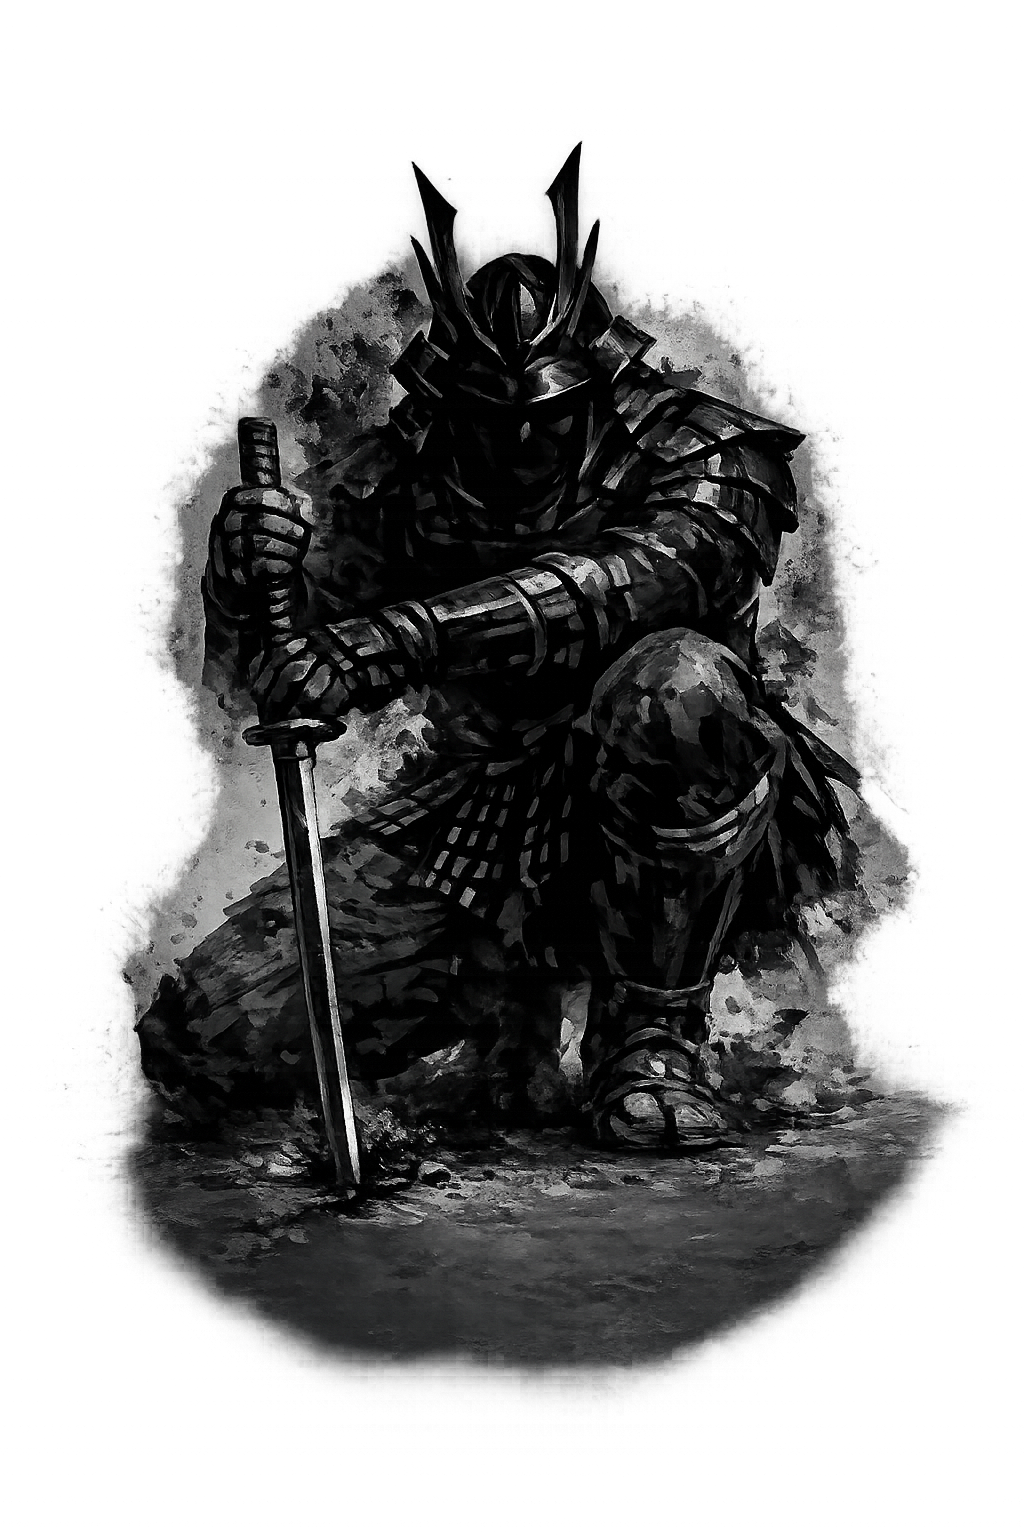
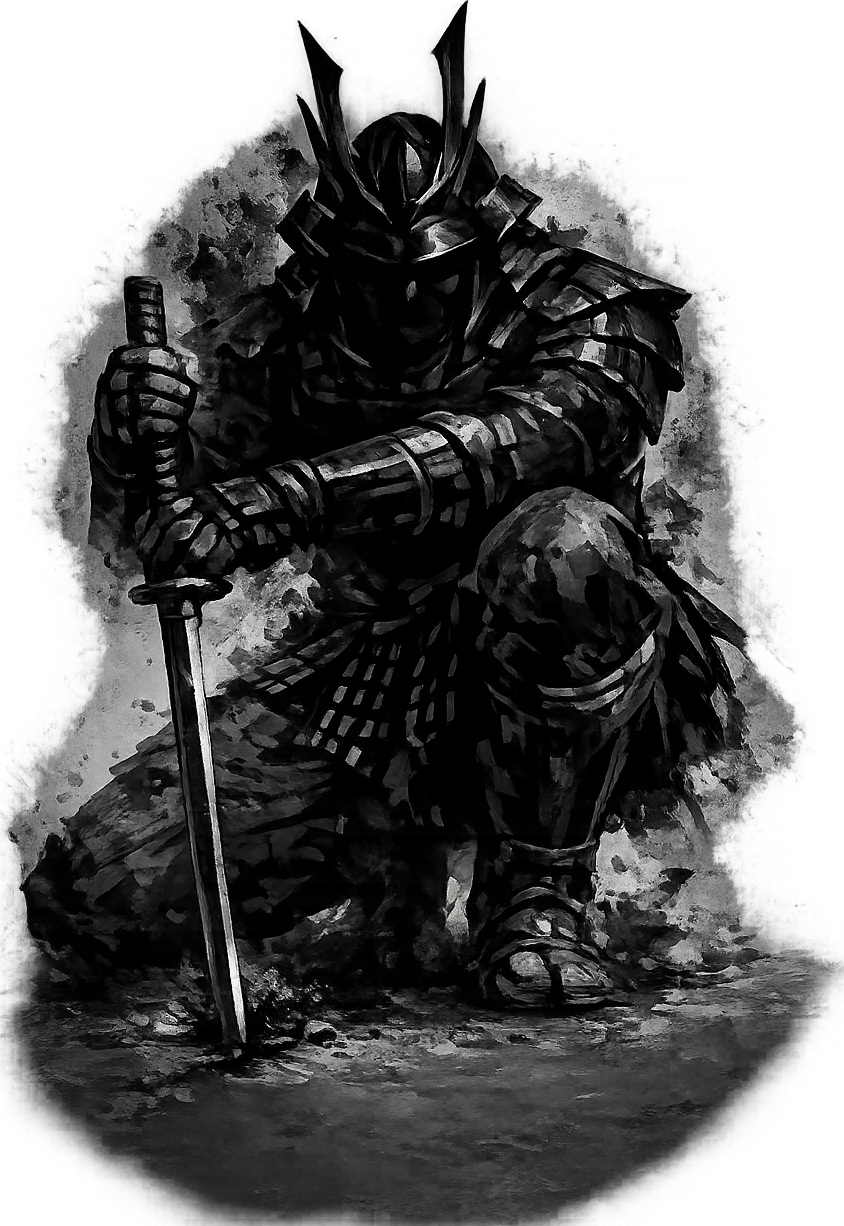
Creating the initial idea for dynamic

diff --git a/frontend/scarlet_shade/src/script/engine/InputManager.js b/frontend/scarlet_shade/src/script/engine/InputManager.js
@@ -1,0 +1,69 @@
+export class InputManager{
+    keys;
+    canvas;
+    keyboardIndex;
+    gamepadIndex;
+
+    constructor(canvas){
+        this.keys = {
+            up: false,
+            down: false,
+            left: false,
+            right: false,
+            jump: false,
+            dash: false,
+            crouch: false,
+            attack: false,
+            spinAttack: false,
+            especialOne: false,
+            especialTwo: false,
+            menuAccess: false,
+            selectItem: false,
+            useItem: false,
+        }
+
+        this.canvas = canvas;
+
+        addEventListener("keydown", (e) => this.onKeyDown(e));
+        addEventListener("keyup", (e) => this.onKeyUp(e));
+
+        this.gamepadIndex = null;
+    }
+
+    onKeyDown(event){
+        const key = event.key.toLowerCase();
+        switch(key){
+            case "w": this.keys.up = true; break;
+            case "a": this.keys.left = true; break;
+            case "s": this.keys.down = true; break;
+            case "d": this.keys.right = true; break;
+        }
+    }
+
+    onKeyUp(event){
+        const key = event.key.toLowerCase();
+        switch(key){
+            case "w": this.keys.up = false; break;
+            case "a": this.keys.left = false; break;
+            case "s": this.keys.down = false; break;
+            case "d": this.keys.right = false; break;
+        }
+    }
+
+    applyInputs(player) {
+
+        if (this.keys.left) {
+            player.moveLeft();
+        }
+        if (this.keys.right) {
+            player.moveRight();
+        } 
+        if (this.keys.up) {
+            player.moveUp();
+        } 
+        if (this.keys.down) {
+            player.moveDown();
+        }
+    }
+
+}

diff --git a/frontend/scarlet_shade/src/script/gameplay.js b/frontend/scarlet_shade/src/script/gameplay.js
@@ -1,0 +1,46 @@
+import { Enemy } from "./models/enemies/Enemy.js";
+import { Camera } from "./models/player/Camera.js";
+import { Player } from "./models/player/Player.js";
+import { GameObject } from "./models/GameObject.js";
+import { InputManager } from "./engine/InputManager.js";
+import { onMount } from "svelte";
+import { EntityManager } from "./engine/EntityManager.js";
+
+let inputManager;
+
+export function startGame(canvas) {
+
+    canvas.width = window.innerWidth;
+    canvas.height = window.innerHeight;
+
+    addEventListener('resize', () => {
+        canvas.width = window.innerWidth;
+        canvas.height = window.innerHeight;
+    });
+
+    const ctx = canvas.getContext("2d");
+
+    inputManager = new InputManager(canvas);
+
+    EntityManager.init(new Player(100, 100, 100, 100), new Camera(canvas, 0, 0));
+
+    EntityManager.addEntity(new Enemy(100, 100, 600, 300));
+    EntityManager.addEntity(new Enemy(100, 100, 6000, 100));
+
+    gameloop(canvas, ctx);
+}
+
+const gameloop = (canvas, ctx) => {
+    ctx.clearRect(0, 0, canvas.width, canvas.height);
+
+    
+    EntityManager.entities.camera.updateCamera(EntityManager.entities.player);
+    ctx.save();
+    
+    EntityManager.drawEntities(ctx);
+
+    ctx.restore();
+    inputManager.applyInputs(EntityManager.entities.player);
+
+    requestAnimationFrame(() => gameloop(canvas, ctx));
+}

diff --git a/frontend/scarlet_shade/src/script/engine/EntityManager.js b/frontend/scarlet_shade/src/script/engine/EntityManager.js
@@ -1,0 +1,29 @@
+export class EntityManager{
+    static entities;
+
+    static init(player, camera){
+        this.entities = {
+            player: player,
+            camera: camera,
+            enemies: []
+        }
+    }
+
+    static addEntity(entity){
+        this.entities.enemies.push(entity);
+    }
+
+    static updateEntity(){
+
+    }
+
+    static removeEntity(){
+        
+    }
+
+    static drawEntities(ctx){
+        this.entities.camera.draw(ctx);
+        this.entities.player.draw(ctx);
+        this.entities.enemies.forEach((e) => e.draw(ctx));
+    }
+}

diff --git a/frontend/scarlet_shade/src/script/models/player/Player.js b/frontend/scarlet_shade/src/script/models/player/Player.js
@@ -1,0 +1,28 @@
+import { GameObject } from "../GameObject";
+
+export class Player extends GameObject{
+    
+    speed;
+
+    //Put speed HERE BABUINO
+    constructor(width, height, posX, posY){
+        super(width, height, posX, posY);
+        this.speed = 15;
+    }
+
+    moveUp(){
+        this.position.y -= this.speed;
+    }
+
+    moveDown(){
+        this.position.y += this.speed;
+    }
+
+    moveLeft(){
+        this.position.x -= this.speed;
+    }
+
+    moveRight(){
+        this.position.x += this.speed;
+    }
+}

diff --git a/frontend/scarlet_shade/src/script/models/player/Camera.js b/frontend/scarlet_shade/src/script/models/player/Camera.js
@@ -1,0 +1,20 @@
+import { GameObject } from "../GameObject";
+
+export class Camera extends GameObject{
+
+    canvas;
+
+    constructor(canvas, posX, posY){
+        super(canvas.width, canvas.height, posX, posY);
+        this.canvas = canvas;
+    }
+
+    updateCamera(player){
+        this.position.x = player.position.x + player.width/2 - this.width/2; 
+        this.position.y = player.position.y + player.height/2 - this.height/2; 
+    }
+
+    draw(ctx){
+        ctx.translate(-this.position.x, -this.position.y);
+    }
+}

diff --git a/frontend/scarlet_shade/src/script/models/GameObject.js b/frontend/scarlet_shade/src/script/models/GameObject.js
@@ -1,0 +1,26 @@
+export class GameObject {
+
+    width;
+    height;
+    posX;
+    posY;
+
+    constructor(width, height, posX, posY){
+        this.width = width;
+        this.height = height;
+        this.position = {
+            x: posX,
+            y: posY
+        }
+    }
+
+    draw(ctx) {
+        // ctx.save();
+
+        ctx.fillStyle = "green";
+        ctx.fillRect(this.position.x, this.position.y, this.width, this.height);
+
+        // ctx.restore();
+    }
+}
+

diff --git a/frontend/scarlet_shade/src/script/models/enemies/Enemy.js b/frontend/scarlet_shade/src/script/models/enemies/Enemy.js
@@ -1,0 +1,22 @@
+import { GameObject } from "../GameObject";
+
+export class Enemy extends GameObject{
+
+    speed;
+
+    //Put speed HERE BABUINO
+    constructor(width, height, posX, posY){
+        super(width, height, posX, posY);
+        this.speed = 15;
+    }
+
+    draw(ctx) {
+        // ctx.save();
+
+        ctx.fillStyle = "red";
+        ctx.fillRect(this.position.x, this.position.y, this.width, this.height);
+
+        // ctx.restore();
+    }
+
+}

diff --git a/frontend/scarlet_shade/src/routes/menu/game/+page.svelte b/frontend/scarlet_shade/src/routes/menu/game/+page.svelte
@@ -1,0 +1,16 @@
+<script>
+
+    import "$style/pages/game.css";
+
+    import { startGame } from "$script/gameplay.js";
+    import { onMount } from "svelte";
+
+    let canvas;
+
+    onMount(() => {
+        startGame(canvas);
+    }) 
+
+</script>
+
+<canvas bind:this={canvas}></canvas>

diff --git a/frontend/scarlet_shade/src/style/pages/errorStyle.css b/frontend/scarlet_shade/src/style/pages/errorStyle.css
@@ -63,3 +63,11 @@ body {
     width: 20rem;
     height: auto;
 }
+
+@media (max-width: 1280px) {
+
+    .error_image{
+        width: 18rem;
+        height: auto;
+    }
+}

diff --git a/frontend/scarlet_shade/src/style/pages/game.css b/frontend/scarlet_shade/src/style/pages/game.css
@@ -1,0 +1,5 @@
+*{
+    margin: 0;
+    bottom: 0;
+    overflow: hidden;
+}
